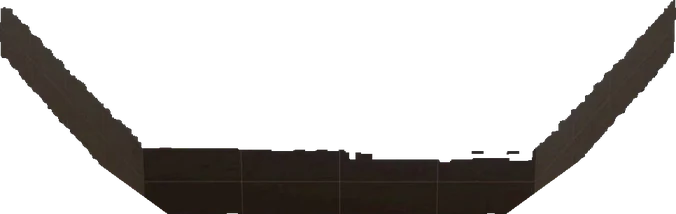
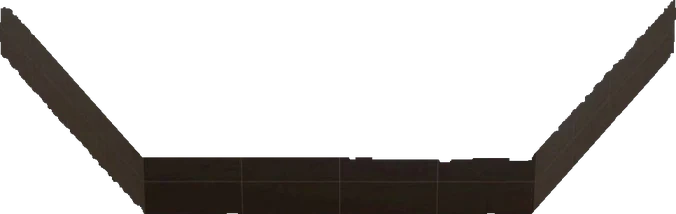
Fix the tile hexagon geometry, and derive capitals from live state
Two unrelated corrections the author spotted.

**The hexes were not hexagons.** Two compounding errors. First, hexH was read
off the hologram's far rim and came out 352 -- but the far half of the top
face is hidden behind the terrain, so the rim is not the hexagon's edge. The
honest fit uses what IS unobstructed on every master: the bottom face's flat
edge (556px) and the near-edge slope (0.887), which pin the height through
(hexW - hexFlat) / hexH = slope, giving 469. Tiles were being packed at 75% of
their true vertical pitch, which is what made the board look flattened.

Second, the tiles are not REGULAR hexagons -- a regular one has a flat edge of
half its width, these measure 0.572 of it -- so the textbook 0.75 * W
horizontal pitch was 35 units short and every column cut into its neighbour.
That was the clipping. They still tile exactly, since opposite sides are
parallel and equal; the pitch just has to come from (W + flat) / 2. The skirt
mask, the hit polygons and the selection/ZoC rings all follow the measured
shape now, so they agree with the art instead of approximating it.

Fixing that stretched the board upward by a third on its own. STRETCH adds the
rest of the requested camera lift on top, at 1.25 (~45° apparent, from ~34°
as rendered). It is honestly a cheat -- a real lift would foreshorten tall
geometry while opening up the ground, and this only does the latter -- so it
is one documented constant, easy to dial back.
[…]

diff --git a/src/prototype/hexProjection.js b/src/prototype/hexProjection.js
@@ -4,9 +4,14 @@
 // different camera).
 //
 // The art is FLAT-TOP (vertices left and right, flat edges top and bottom),
-// viewed from ~25° above the horizon, which squashes it vertically. The live
-// board used to be pointy-top, so the renderer transposes: an engine ROW
-// becomes a screen COLUMN.
+// viewed from ~34° above the horizon, which squashes it vertically. It is also
+// not a REGULAR hexagon — the flat edges measure 0.572 of the vertex-to-vertex
+// width rather than 0.5 — so the tiling pitch is derived from the measured
+// shape (see COL_STEP) instead of the usual 0.75 * W. It still tiles exactly:
+// opposite sides are parallel and equal, which is all a hexagon needs.
+//
+// The live board used to be pointy-top, so the renderer transposes: an engine
+// ROW becomes a screen COLUMN.
 //
 // That transpose costs nothing, because the engine's adjacency is purely
 // topological — `buildHexGrid` (src/game/board.js) links hexes by row/col
@@ -30,18 +35,34 @@ export const HEX_W = 216;
 // CSS px per source-image unit. Every measurement out of the manifest is in
 // source units, so this is the only place the two spaces meet.
 export const UNIT = HEX_W / FRAME.hexW;
-export const HEX_H = FRAME.hexH * UNIT;      // projected height of the top face
-export const SKIRT_H = FRAME.skirt * UNIT;   // plinth depth below the near edge
 
-// Tiles pack flush: the plinths meet and the board reads as one continuous
-// map table rather than a scatter of floating dioramas. The cost is
-// occlusion — the art reaches up to ~332 source units above the centreline
-// against a 352-unit vertical pitch, so a tall tile hides most of the tile
-// behind it — and that is an accepted trade, not an oversight. Raising this
-// above 1 floats the tiles apart again and buys the clearance back.
+// Fake a higher camera by stretching everything vertically. A real camera lift
+// would foreshorten tall geometry as it opened up the ground plane; this only
+// does the second half, so mountains grow with the ground and the illusion
+// breaks if you push it far. 1.0 is the art as rendered (~34° above the
+// horizon); ~1.25 reads as ~45°. Applied to every vertical measurement, so the
+// grid, the art and the hit polygons stay in agreement whatever it is set to.
+export const STRETCH = 1.25;
+export const UNIT_Y = UNIT * STRETCH;
+
+export const HEX_H = FRAME.hexH * UNIT_Y;     // projected height of the top face
+export const HEX_FLAT = FRAME.hexFlat * UNIT; // length of the top/bottom edges
+export const SKIRT_H = FRAME.skirt * UNIT_Y;  // plinth depth below the near edge
+
+// Tiles pack flush: the plinths meet and the board reads as one continuous map
+// table rather than a scatter of floating dioramas. The cost is occlusion —
+// the art reaches up to ~332 source units above the centreline against a
+// 469-unit vertical pitch, so a tall tile hides part of the tile behind it —
+// and that is an accepted trade. Raising this above 1 floats the tiles apart
+// again and buys the clearance back.
 export const GAP = 1.0;
-export const COL_STEP = 0.75 * HEX_W * GAP;  // engine row  -> screen x
-export const ROW_STEP = HEX_H * GAP;         // engine hex.x -> screen y
+// Tiling vectors for a hexagon with opposite sides parallel and equal. The
+// familiar 0.75 * W only holds for a REGULAR hexagon (flat edge = W/2); these
+// tiles measure a flat edge of 0.572 * W, so the horizontal pitch has to come
+// from (W + flat) / 2 or every column overlaps its neighbour and the rims
+// visibly cut into each other.
+export const COL_STEP = ((HEX_W + HEX_FLAT) / 2) * GAP;  // engine row  -> screen x
+export const ROW_STEP = HEX_H * GAP;                     // engine hex.x -> screen y
 
 const MAX_PEAK = Math.max(...TILES.map((t) => t.peakAbove)) * UNIT;
 // Headroom above the tallest tile for the Loyalty radial that floats over
@@ -52,14 +73,16 @@ const PAD_BOTTOM = HEX_H / 2 + SKIRT_H + 24;
 const PAD_X = HEX_W / 2 + 24;
 
 // --- the top face --------------------------------------------------------
-// A flat-top hexagon squashed to HEX_H. Used for hit-testing, the selection
-// ring and the Zone-of-Control ring, so all three agree by construction.
+// The tile's actual hexagon — flat edges of HEX_FLAT, vertices at ±HEX_W/2.
+// Used for hit-testing, the selection ring and the Zone-of-Control ring, so
+// all three agree with the art and with each other by construction.
 export function topFacePoints(inset = 0) {
   const w = (HEX_W / 2) * (1 - inset);
+  const f = (HEX_FLAT / 2) * (1 - inset);
   const h = (HEX_H / 2) * (1 - inset);
   return [
-    [-w, 0], [-w / 2, -h], [w / 2, -h],
-    [w, 0], [w / 2, h], [-w / 2, h],
+    [-w, 0], [-f, -h], [f, -h],
+    [w, 0], [f, h], [-f, h],
   ];
 }
 

diff --git a/src/prototype/data.js b/src/prototype/data.js
@@ -27,12 +27,24 @@ export const theme = {
 
 export const NEUTRAL = "#717171";
 
-// Player factions. `capital` is the location each one begins holding.
+// Player factions. `capital` is the Location each one begins holding.
+//
+// This is display-fallback data only — the live capital comes from the engine
+// via `adaptDiplomacy`'s `capital` / `youCapital`, because a Capital moves when
+// its Location is captured. Keep it correct anyway: three of these four were
+// wrong (Lakers listed Dambar, Goldgrass listed Chigan, Plainers listed Erport)
+// and the errors reached the map.
+//
+// The rule the engine actually applies (`generateLayout` in src/game/board.js):
+// a faction starts on the LOWER-value of its two affiliated Locations, and the
+// affiliations live in src/game/content.js — Versari korad+dambar, Goldgrass
+// kansit+omara, Lakers chigan+droit, Plainers the-shelf+tin-town. Erport and
+// Concordan are unaffiliated and can never be anyone's capital.
 export const FACTIONS = {
   versari: { id: "versari", name: "Versari Korad", short: "Versari", color: "#d2453f", capital: "korad" },
-  lakers: { id: "lakers", name: "Grand Lakers", short: "Lakers", color: "#3f84c4", capital: "dambar" },
-  goldgrass: { id: "goldgrass", name: "Goldgrass Coalition", short: "Goldgrass", color: "#85ab3e", capital: "chigan" },
-  plainers: { id: "plainers", name: "Free Plainers", short: "Plainers", color: "#9d70c4", capital: "erport" },
+  lakers: { id: "lakers", name: "Grand Lakers", short: "Lakers", color: "#3f84c4", capital: "droit" },
+  goldgrass: { id: "goldgrass", name: "Goldgrass Coalition", short: "Goldgrass", color: "#85ab3e", capital: "omara" },
+  plainers: { id: "plainers", name: "Free Plainers", short: "Plainers", color: "#9d70c4", capital: "tinTown" },
   // §18.4.1 minor factions — now real on-board actors (seated near their
   // major), so the UI must resolve their name/short/colour like any faction.
   tempest: { id: "tempest", name: "Clan Tempest", short: "Tempest", color: "#4a6fa5", capital: null },

diff --git a/src/prototype/engineAdapter.js b/src/prototype/engineAdapter.js
@@ -69,6 +69,22 @@ const UI_TO_ENGINE_CHIP = Object.fromEntries(
 export function engineLocationIdToUi(engineId) {
   return ENGINE_TO_UI_LOC[engineId] || engineId;
 }
+
+// The Location a faction currently holds its Capital chip on, as a UI
+// locationId. Derived from live state rather than from a static table: the
+// engine's faction registry (src/game/content.js) carries no `capital` field
+// at all, so the old `def.capital` read was always undefined — which silently
+// disabled the trading-pact route line on the map. Capitals also change hands
+// when a start Location is captured, which a table could never track.
+function capitalLocOf(state, fid) {
+  for (const loc of Object.values(state.locations)) {
+    if (loc.controller !== fid) continue;
+    if ((loc.chips || []).some((c) => state.chips[c]?.chipId === "capital")) {
+      return engineLocationIdToUi(loc.locationId);
+    }
+  }
+  return null;
+}
 export function engineChipIdToUi(engineId) {
   return ENGINE_TO_UI_CHIP[engineId] || engineId;
 }
@@ -570,7 +586,7 @@ function adaptDiplomacy(state, viewer) {
       // Available verbs against this faction, with reasons + outcome hints.
       verbs: availableVerbsAgainst(state, viewer, f),
       // Inbox + capital (for map binding).
-      capital: def.capital || null,
+      capital: capitalLocOf(state, f),
       // §5.3 trading-pact route status — read straight off the agreement
       // shape on `state.diplomacy.agreements` so the map can draw the
       // capital-to-capital line green (clear) or amber (suspended).
@@ -583,6 +599,7 @@ function adaptDiplomacy(state, viewer) {
   });
   return {
     youId: viewer,
+    youCapital: capitalLocOf(state, viewer),
     menace: me?.menace || 0,
     honor: me?.honor ?? CONFIG.diplomacy.honor.start,
     threat: Math.round(threatScore(state, viewer) * 10) / 10,

diff --git a/src/prototype/HexTile.jsx b/src/prototype/HexTile.jsx
@@ -16,7 +16,7 @@
 import { LOCATIONS, ownerColor, theme } from "./data.js";
 import { holoTint, tintStrength } from "./holoTint.js";
 import {
-  FRAME, HEX_W, HEX_H, SKIRT_H, UNIT, layerUrl, tileFor, topFacePolygon,
+  FRAME, HEX_W, HEX_H, SKIRT_H, UNIT, UNIT_Y, layerUrl, tileFor, topFacePolygon,
 } from "./hexProjection.js";
 
 function Layer({ layer, style, className }) {
@@ -29,9 +29,9 @@ function Layer({ layer, style, className }) {
       style={{
         position: "absolute",
         left: layer.dx * UNIT,
-        top: layer.dy * UNIT,
+        top: layer.dy * UNIT_Y,
         width: layer.w * UNIT,
-        height: layer.h * UNIT,
+        height: layer.h * UNIT_Y,
         pointerEvents: "none",
         ...style,
       }}
@@ -106,9 +106,9 @@ export default function HexTile({
             style={{
               position: "absolute",
               left: tile.layers.holo.dx * UNIT,
-              top: tile.layers.holo.dy * UNIT,
+              top: tile.layers.holo.dy * UNIT_Y,
               width: tile.layers.holo.w * UNIT,
-              height: tile.layers.holo.h * UNIT,
+              height: tile.layers.holo.h * UNIT_Y,
               background: tint.color,
               WebkitMaskImage: `url(${layerUrl(tile.layers.holo.file)})`,
               maskImage: `url(${layerUrl(tile.layers.holo.file)})`,

diff --git a/src/prototype/DiplomacyDrawer.jsx b/src/prototype/DiplomacyDrawer.jsx
@@ -1677,10 +1677,11 @@ export default function DiplomacyDrawer({
 
   // §5.3 — when the faction-detail view is showing a faction with an
   // active trading pact, paint the capital-to-capital dotted route line
-  // on the map (green if clear, amber if suspended). Endpoints come from
-  // FACTIONS.{capital} — the viewer's own capital is read from data.js.
+  // on the map (green if clear, amber if suspended). Both endpoints come from
+  // live state via the adapter — a Capital moves when its Location is taken,
+  // so a static table cannot supply them.
   const tradeFor = selectedFaction?.tradingPact || null;
-  const myCapital = UI_FACTIONS[dip.youId]?.capital || null;
+  const myCapital = dip.youCapital || null;
   const theirCapital = selectedFaction?.capital || null;
   const showRoute = tradeFor && myCapital && theirCapital && view === "detail";
 

diff --git a/scripts/hex-tiles/build_tiles.py b/scripts/hex-tiles/build_tiles.py
@@ -39,20 +39,32 @@ OUT = os.path.join(ROOT, "public", "assets", "ui", "board", "tiles")
 MANIFEST = os.path.join(ROOT, "src", "prototype", "hexTiles.json")
 
 # --- locked camera rig, in source-image pixels ---------------------------
-# cx/cy is the centre of the hexagon's top face; the left/right vertices sit
-# on row cy. hexW is vertex-to-vertex, hexH is the full projected height of
-# the top face (squashed by the camera tilt). skirt is how far the plinth
+# cx/cy is the centre of the hexagon's top face; the left/right vertices sit on
+# row cy. hexW is vertex-to-vertex; hexFlat is the length of the top and bottom
+# flat edges; hexH is the full projected height. skirt is how far the plinth
 # extrudes below the top face at the centre column.
+#
+# These are FITTED, not eyeballed, and the fit is self-consistent: the bottom
+# face's flat edge measures 556 wide and the near edges have slope
+# |dx/dy| = 0.887 on every master, and (hexW - hexFlat) / hexH reproduces that
+# slope exactly. An earlier pass read hexH off the hologram's far rim and got
+# 352, which is 25% short -- the far half of the top face is hidden behind the
+# terrain, so the rim is not the hexagon's edge. That error packed tiles at 75%
+# of their true vertical pitch, which is what made the board look squashed and
+# clipped its neighbours.
+#
+# NOTE the tiles are NOT squashed REGULAR hexagons: a regular one would have
+# hexFlat == hexW / 2 == 486, and these measure 556. They are still perfectly
+# tileable -- any hexagon with opposite sides parallel and equal tiles the
+# plane -- but the pitch has to come from hexFlat, not from 0.75 * hexW.
 FRAME = {
     "src": 1024,
     "cx": 509,
     "cy": 522,
-    "hexW": 970,
-    "hexH": 352,
-    "skirt": 139,
-    # elevation implied by hexH / (0.866 * hexW) -- informational, so a future
-    # re-render at a different angle is obvious in a diff.
-    "elevationDeg": 24.8,
+    "hexW": 972,
+    "hexFlat": 556,
+    "hexH": 469,
+    "skirt": 81,
     "orientation": "flat-top",
 }
 
@@ -133,10 +145,13 @@ def build(tile_id, tags):
     lum = 0.2126 * R + 0.7152 * G + 0.0722 * B
     yy, xx = np.mgrid[0:H, 0:W].astype(np.float32)
 
-    # analytic flat-top hexagon, then the same footprint extruded downward
+    # analytic hexagon, then the same footprint extruded downward. The near
+    # boundary is flat out to |x| = hexFlat/2 and then slopes to the vertex,
+    # which for a regular hexagon reduces to the familiar 2*(1-u).
+    fw = FRAME["hexFlat"] / FRAME["hexW"]
     u = np.abs(xx - FRAME["cx"]) / (FRAME["hexW"] / 2)
     v = (yy - FRAME["cy"]) / (FRAME["hexH"] / 2)
-    near_edge = np.minimum(1.0, 2.0 * (1.0 - u))
+    near_edge = np.minimum(1.0, (1.0 - u) / (1.0 - fw))
     skirt = (u <= 1.0) & (v > near_edge) & (v <= near_edge + FRAME["skirt"] / (FRAME["hexH"] / 2))
 
     # hologram: cool + emissive. the plinth is warm and only ever lit.

diff --git a/docs/holographic-hex-board-plan.md b/docs/holographic-hex-board-plan.md
@@ -19,16 +19,27 @@ good news:
 | Property | Value | Spread across the 14 |
 |---|---|---|
 | Canvas | 1024 × 1024 JPEG | — |
-| Hex width (vertex→vertex) | **970 px** | ±4 px (0.4%) |
+| Hex width (vertex→vertex) | **972 px** | ±4 px (0.4%) |
 | Hex centre x | **509 px** | ±0.5 px |
 | Left/right vertex row (y) | **522 px** | **0 px — pixel-identical** |
-| Projected top-face height | **352 px** | ±2 px on flat tiles |
-| Plinth skirt height (at centre) | **139 px** | ±4 px |
+| Top/bottom flat edge | **556 px** | ±3 px |
+| Projected top-face height | **469 px** | fitted, see below |
+| Near-edge slope \|dx/dy\| | **0.887** | 0.851–0.914 |
+| Plinth skirt height (at centre) | **81 px** | ±4 px |
 | Tallest geometry above centreline | 258–335 px | varies by tile (as expected) |
 
 **The camera is locked.** Every tile was rendered from the same rig, so tile
 geometry is a set of constants rather than something to detect per-image. That
 is what makes the whole plan cheap.
+
+The height figure is *fitted*, not read off directly, and an earlier pass got
+it badly wrong. Measuring where the hologram's far rim sits gives 352 — but the
+far half of the top face is hidden behind the terrain, so the rim is not the
+hexagon's edge. The honest fit comes from two things that are unobstructed on
+every master: the bottom face's flat edge (556 px) and the slope of the near
+edges (0.887), which pin the height through `(hexW − hexFlat) / hexH = slope`.
+Using 352 packed tiles at 75% of their true vertical pitch, which is what made
+the board look flattened and clipped tiles into their neighbours.
 
 Three facts that *don't* match the existing pipeline doc and drive most of the
 work below:
@@ -36,8 +47,13 @@ work below:
 1. **The hexes are flat-top** (vertices left and right, flat edges top and
    bottom). `docs/blender-hex-tile-pipeline.md` specifies pointy-top, and the
    live board renders pointy-top.
-2. **Camera elevation is ~24.8°** (vertical squash 0.419), not the 45–55° the
-   pipeline doc specifies. Much more dramatic, much more occlusion.
+2. **Camera elevation is ~34°** (vertical squash 0.557), not the 45–55° the
+   pipeline doc specifies.
+2b. **The tiles are not REGULAR hexagons.** A regular flat-top hexagon has a
+   flat edge of exactly half its vertex-to-vertex width; these measure 0.572 of
+   it. They still tile the plane exactly — opposite sides are parallel and
+   equal, which is all a hexagon needs — but the pitch has to be derived from
+   the measured flat edge, not from the textbook `0.75 × W`.
 3. **Opaque JPEG, no alpha.** The doc asks for WebP + alpha. The dark misty
    background has to be keyed out.
 
@@ -258,10 +274,9 @@ Ordered roughly by how much damage each does if it's discovered late.
 CSS clip-path, the token slots, the ZoC polygon and the replay camera all assume
 pointy-top. Every one of those has to move together. The engine is unaffected.
 
-**P2 — Occlusion at 24.8° (measured).** Tall geometry reaches up to 335 px above
-the hex centreline against a 352 px vertical pitch. At gap 1.00, a tall tile
-hides essentially all of the tile behind it. Gap ≥1.2 makes it acceptable;
-re-rendering at ~40° elevation would fix it properly. See Q3.
+**P2 — Occlusion (measured).** Tall geometry reaches up to 332 px above the hex
+centreline against a 469 px vertical pitch, so a tall tile hides roughly the
+back two-thirds of the tile behind it at `GAP = 1.0`. Accepted (Q3).
 
 **P3 — Lossy masters.** JPEG ringing around the glow leaves faint speckle in the
 alpha mask. The analytic prism mask keeps it out of the plinth, but PNG/WebP
@@ -368,20 +383,27 @@ Either the engine grows a real rail network (a second pass like `assignRoads`,
 plus whatever rail is supposed to *do*), or say the word and I'll generate a
 display-only one at setup.
 
-**Q11 — Which Locations are canonically coastal?** Worth settling before the
-map generator is taught to honour it, because the two data sources disagree.
-The engine (`src/game/content.js`) gives Lakers **chigan + droit** and puts
-**dambar** under Versari; the look-pass table (`src/prototype/data.js`) says
-Lakers' capital *is* dambar and gives it a "Deepwater Port" ability. Coast
-placement is positional today (east rim), so nothing is blocked — but "Grand
-Laker settlements are on the coast" resolves to different hexes depending on
-which table is right.
+**Q11 — Should Dambar still be a Versari home Location?** The capital bug is
+fixed (see below), but one question survives it: `src/game/content.js` lists
+**dambar** among Versari's two affiliated Locations, while the fiction has
+Dambar as the Denver analogue and the Dambarans plainly from there. Moving it
+would leave Versari with one home Location, and `generateLayout` assumes every
+major faction has exactly two — so this is a content change with a generator
+consequence, not a one-line edit.
 
 **Q12 — Should the generator force the coastal factions east?** Coast art is
-positional, so Lakers/Tempest currently start wherever `generateLayout`'s
-farthest-point sampling puts them, which is often inland. Pinning their anchor
-to the eastern rim is a contained change to `generateLayout`, but it is a real
-map-generation change (it re-rolls every existing seed), so I have not made it.
+positional, so Lakers (chigan + droit) and Tempest currently start wherever
+`generateLayout`'s farthest-point sampling puts them, which is often inland.
+Pinning their anchor to the eastern rim is a contained change to
+`generateLayout`, but it is a real map-generation change — it re-rolls every
+existing seed — so I have not made it.
+
+**Q13 — Vertical stretch.** `STRETCH` in `hexProjection.js` fakes a higher
+camera by scaling every vertical measurement; it is at **1.25** (reads as
+~45°). 1.0 is the art exactly as rendered (~34°). It is a cheat: a real camera
+lift would foreshorten tall geometry as it opened up the ground plane, and this
+only does the second half, so mountains grow along with the ground. Fine at
+1.25, breaks down well before 2.
 
 **Q7 — Approve the holo palette** in §2.2, or adjust the four colours.
 
